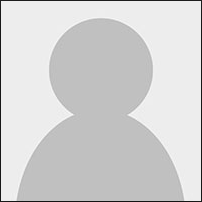
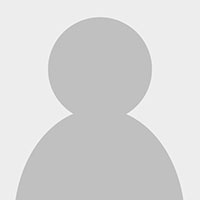
Adjust details on people screen

diff --git a/app/containers/PeoplePage/index.js b/app/containers/PeoplePage/index.js
@@ -65,7 +65,6 @@ const AddPersonButton = styled.button`
 const PersonListWrapper = styled.div`
   ${margins}
   display: flex;
-  flex-grow: 1;
   flex-direction: row;
   flex-wrap: wrap;
 `;
@@ -73,7 +72,11 @@ const PersonListWrapper = styled.div`
 const PersonContainer = styled.div`
   display: flex;
   flex-direction: column;
-  width: 200px;
+  width: 230px;
+  height: 230px;
+  align-items: center;
+  text-align: center;
+  margin-botton: -10px;
 `;
 
 const PersonPictureContainer = styled.div`
@@ -82,6 +85,7 @@ const PersonPictureContainer = styled.div`
 `;
 
 const PersonImg = styled.img`
+  margin: 0 auto;
 `;
 
 const PersonNameContainer = styled.span`
@@ -100,21 +104,19 @@ export class PeoplePage extends React.Component { // eslint-disable-line react/p
     } = this.props;
 
     return (people || []).map((person, index) => (
-      <a
+      <PersonContainer
         key={person.get('kUserId')}
         tabIndex={index}
         role="button"
         onClick={() => { personSelected(person.get('kUserId')); }}
       >
-        <PersonContainer >
-          <PersonPictureContainer>
-            <PersonImg src={UnknownAvatar} />
-          </PersonPictureContainer>
-          <PersonNameContainer>
-            { person.get('name') }
-          </PersonNameContainer>
-        </PersonContainer>
-      </a>
+        <PersonPictureContainer>
+          <PersonImg src={UnknownAvatar} />
+        </PersonPictureContainer>
+        <PersonNameContainer>
+          { person.get('name') }
+        </PersonNameContainer>
+      </PersonContainer>
     ));
   }
 
